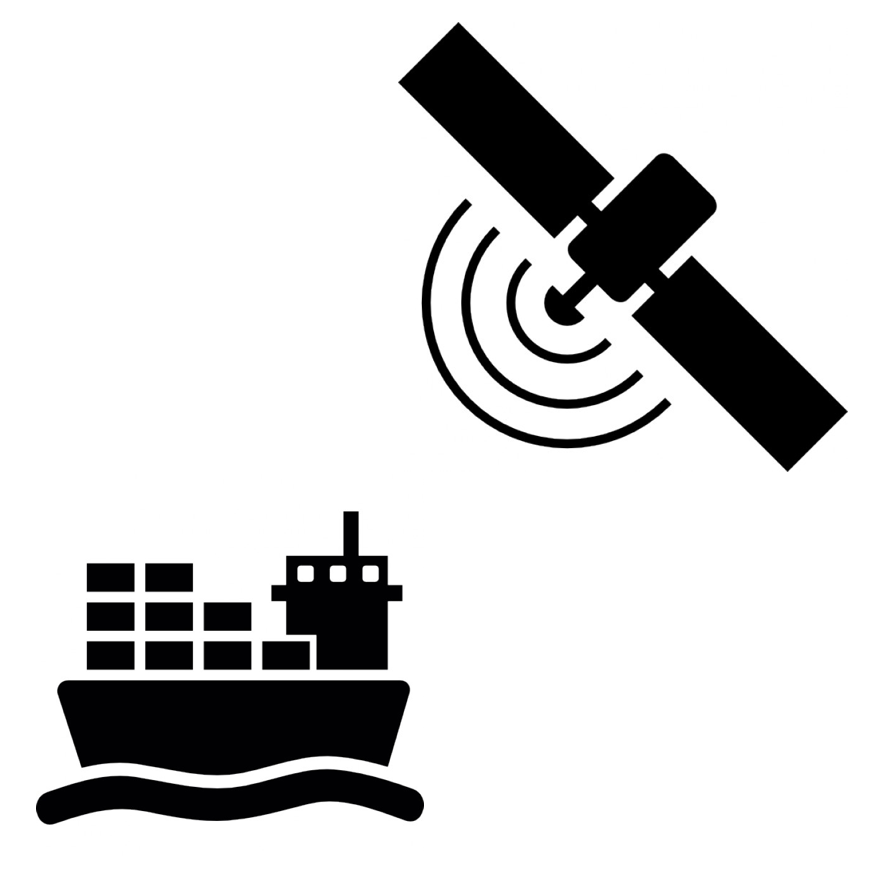
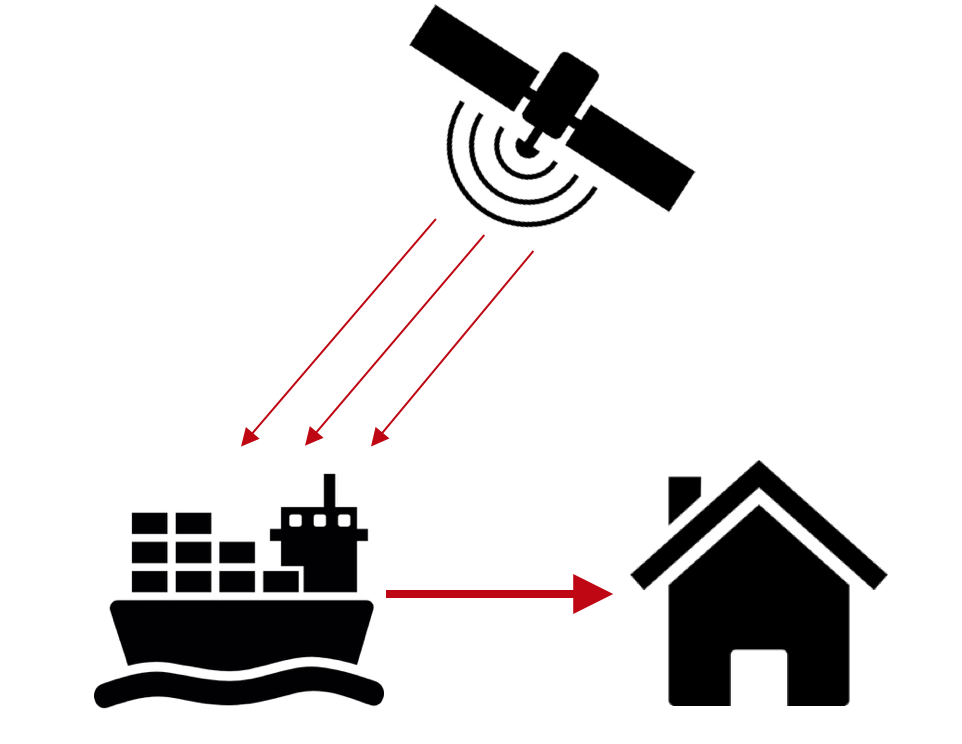
added images

diff --git a/index.html b/index.html
@@ -11,57 +11,91 @@
 
 	<div id="topbar">
 
-		<div><h3><font size ="+2">Transfer to Land</font></h3></div>
-		<div><h3><font size ="+2">Marine Power Supply Ship</font></h3></div>
-		<div><h3><font size ="+2">Microwave Transmission</font></h3></div>
-		<div><h3><font size ="+2">Satellite Reciever</font></h3></div>
+		<div><h3><font size ="+2"><a href="#sec1">Transfer to Land</a></font></h3></div>
+		<div><h3><font size ="+2"><a href="#sec2">Marine Power Supply Ship</a></font></h3></div>
+		<div><h3><font size ="+2"><a href="#sec3">Microwave Transmission</a></font></h3></div>
+		<div><h3><font size ="+2"><a href="#sec4">Satellite Reciever</a></font></h3></div>
 		<div style="height: 50px;"><img src="logo.png"></div>
 	</div>
 
 	<div id="data">
 		<div class="bodysection">
-			<h1>Sun to Sea Power Transporter</h1>
+			<h1><font size="+5">Sun to Sea Power Transporter</font></h1>
 			<div>
-				<div id="left">
+				<div id="topleft">
 					<img style="height: 500px;" src="diagram.png"> 
 				</div>
-				<div id="right">
-					<h2>What We Do:</h2>
+				<div id="topright">
+					<h1>What We Do:</h1>
+					<p><font size="+3">
+						The Sun to Sea Power Transporter system takes solar energy and uses it to provide power to victims in costal cities after natural disasters. The system ultilizes geostationary satellites to collect solar energy from 36,000km above the earth's surface. This energy is converted to microwaves and is sent to one of our modified shipping boats. These modified ships each have a 100,000m<sup>2</sup> circular rectenna array. This array absorbs the microwaves sent from the satellite and stores it in Tesla Powerpacks on the ship. After a natural disaster, the ship will move close to the impacted area and deploy a smaller boat to bring the connection cable to shore. Using a method similar to that of offshore wind turbines, the Powerpacks will send their power through the cable into the exsisting power grid. 
+					</font></p>
 				</div>
 			</div>
 			
 		</div>
 		<div class="bodysection" id="sec1">
-		<h1>Satellite Reciever</h1>
-			<p>
-				It is a long established fact that a reader will be distracted by the readable content of a page when looking at its layout. The point of using Lorem Ipsum is that it has a more-or-less normal distribution of letters, as opposed to using 'Content here, content here', making it look like readable English. Many desktop publishing packages and web page editors now use Lorem Ipsum as their default model text, and a search for 'lorem ipsum' will uncover many web sites still in their infancy. Various versions have evolved over the years, sometimes by accident, sometimes on purpose (injected humour and the like).
+		<h1><font size="+5">How it works:</font></h1>
+			<div id="left">
+				<img src="satellite.png"> 
+			</div>
+			<div id="right">
+						<h1>Satellite</h1>
 
-			</p>
+				content here
+			</div>
 		</div>
 		<div class="bodysection" id="sec2">
-			<h1>Microwave Transmission</h1>
-			<p>
-				It is a long established fact that a reader will be distracted by the readable content of a page when looking at its layout. The point of using Lorem Ipsum is that it has a more-or-less normal distribution of letters, as opposed to using 'Content here, content here', making it look like readable English. Many desktop publishing packages and web page editors now use Lorem Ipsum as their default model text, and a search for 'lorem ipsum' will uncover many web sites still in their infancy. Various versions have evolved over the years, sometimes by accident, sometimes on purpose (injected humour and the like).
+			<div id="left">
+				<img src="waves.png">
+			</div>
+			<div id="right">
+						<h1>Microwaves</h1>
 
-			</p>
+				content here
+			</div>
 		</div>
 		<div class="bodysection" id="sec3">
-			<h1>Marine Power Supply Ship</h1>
-			<p>
-				It is a long established fact that a reader will be distracted by the readable content of a page when looking at its layout. The point of using Lorem Ipsum is that it has a more-or-less normal distribution of letters, as opposed to using 'Content here, content here', making it look like readable English. Many desktop publishing packages and web page editors now use Lorem Ipsum as their default model text, and a search for 'lorem ipsum' will uncover many web sites still in their infancy. Various versions have evolved over the years, sometimes by accident, sometimes on purpose (injected humour and the like).
+			<div id="left">
+				<img src="rectenna.png">
+			</div>
+			<div id="right">
+						<h1>Boat</h1>
 
-			</p>
+				content here
+			</div>
+		</div>
+		<div class="bodysection" id="sec3">
+			<div id="left">
+				<img src="powerpack.png"> 
+			</div>
+			<div id="right">
+				<h1>Powerpack</h1>
+
+				content here
+			</div>
 		</div>
 		<div class="bodysection" id="sec4">
-			<h1>Transfer to Land</h1>
-			<p>
-				It is a long established fact that a reader will be distracted by the readable content of a page when looking at its layout. The point of using Lorem Ipsum is that it has a more-or-less normal distribution of letters, as opposed to using 'Content here, content here', making it look like readable English. Many desktop publishing packages and web page editors now use Lorem Ipsum as their default model text, and a search for 'lorem ipsum' will uncover many web sites still in their infancy. Various versions have evolved over the years, sometimes by accident, sometimes on purpose (injected humour and the like).
-
-			</p>
+			<h1>Numbers</h1>
+			<div id="left">
+				image here 
+			</div>
+			<div id="right">
+				content here
+			</div>
+		</div>
+		<div class="bodysection" id="sec4">
+			<h1>Additional Questions</h1>
+			<div id="left">
+				image here 
+			</div>
+			<div id="right">
+				content here
+			</div>
 		</div>
 
 		<div id="footer">
-			
+			<p>Made by Sanjay and Michael at Skyhack 2017.</p>
 		</div>
 	</div>
 

diff --git a/stylesheet.css b/stylesheet.css
@@ -15,6 +15,7 @@
 	width: 19%;
 	margin: 1px;
 	text-align: center;
+	text-decoration: none;
 }
 #topBar div div {
 	display: inline-block;
@@ -45,14 +46,26 @@ h1{
 	margin-top: 100px;
 }
 
-#right{
+#topright{
 	float: right;
 	height: 500px;
 	width: 50%
 }
 
-#left{
+#topleft{
 	width: 49%;
+	float: left;
+	height: 500px;
+}
+
+#right{
+	float: right;
+	height: 500px;
+	width: 66%
+}
+
+#left{
+	width: 33%;
 	float: left;
 	height: 500px;
 }
@@ -66,7 +79,7 @@ h1{
 }
 
 #sec2{
-	background-color:  #f2ffcc;
+	/*background-color:  #f2ffcc;*/
 }
 
 #sec3{
@@ -74,7 +87,7 @@ h1{
 }
 
 #sec4{
-	background-color:  #f2ffcc;
+	/*background-color:  #f2ffcc;*/
 }
 
 #footer{
